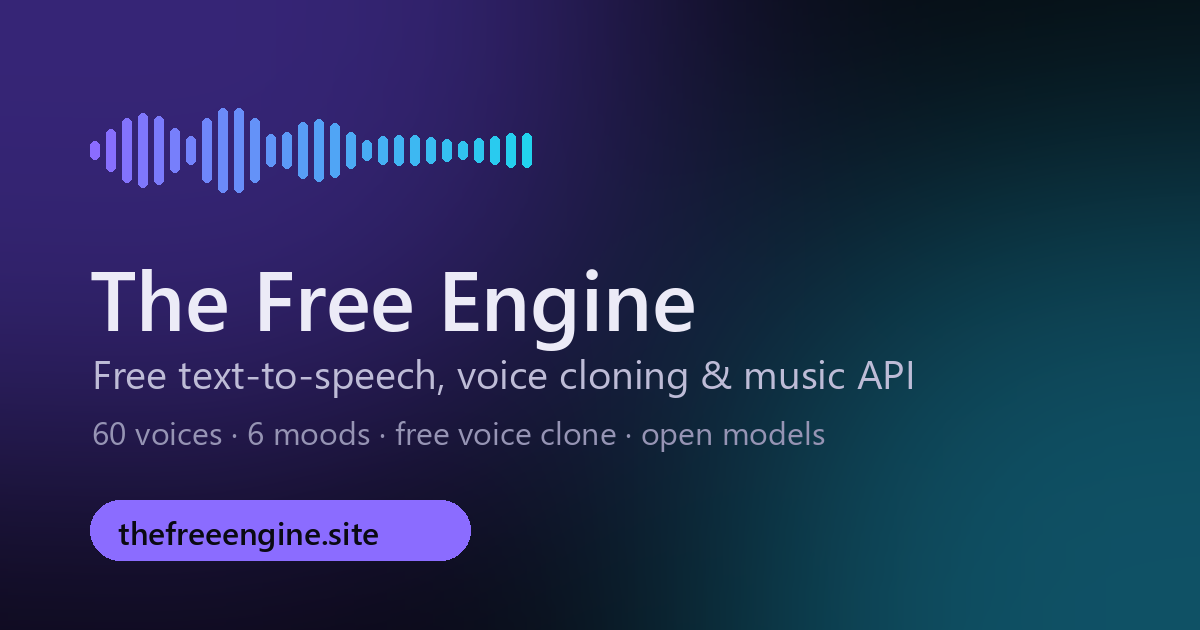
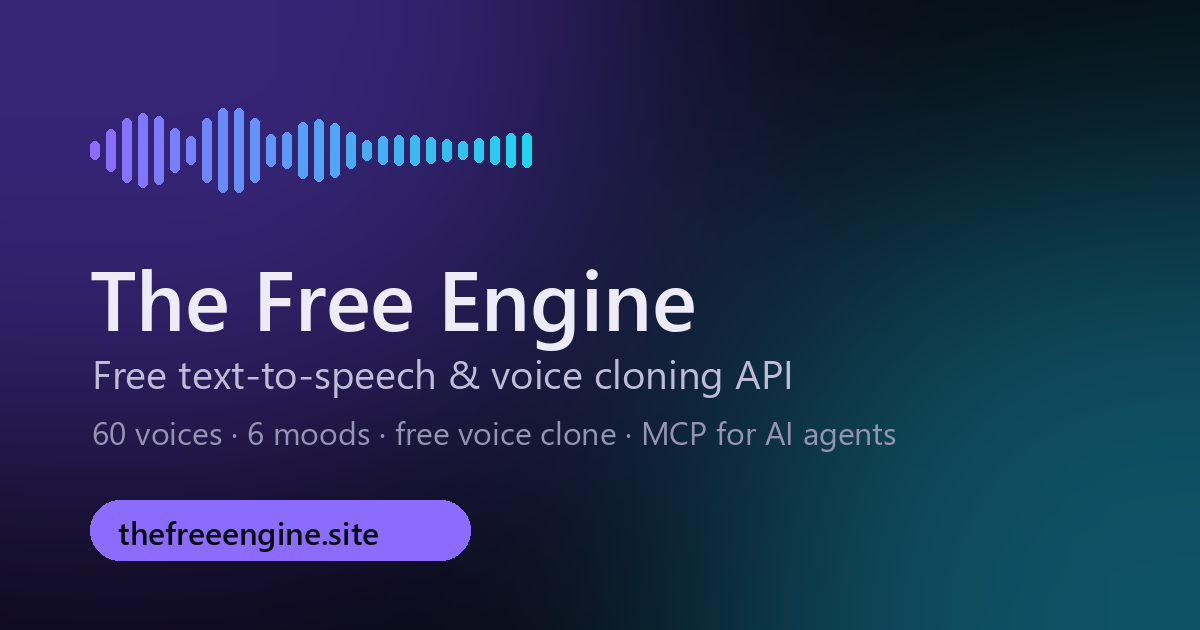
Pause music: hide it on the site, API and MCP (TFE_MUSIC_ENABLED), stop the music worker on deploy; deploy to new server by IP

Changed region(s): [[0.37, 0.573, 0.7708, 0.6333], [0.5242, 0.6635, 0.74, 0.7238]]

diff --git a/web/app.js b/web/app.js
@@ -370,11 +370,11 @@ const pages = {
         <p class="lead">${S.voices.length || 60} natural voices, free voice cloning, and a simple API. No card, no catch. Just sign up and start talking.</p>
         <div class="ctas">${S.me ? '<a class="btn pri" href="#/studio">Open studio</a>' : '<a class="btn pri" href="#/signup">Get your free API key</a>'}<a class="btn" href="#voices">Hear the voices</a></div>
         ${composerHTML(true)}
-        <div class="stats"><div><b>${S.voices.filter((v) => v.type === "house").length || 60}</b><span>house voices</span></div><div><b>5K</b><span>free chars / day</span></div><div><b>Free</b><span>voice cloning</span></div><div><b>♪</b><span>free music</span></div></div>
+        <div class="stats"><div><b>${S.voices.filter((v) => v.type === "house").length || 60}</b><span>house voices</span></div><div><b>5K</b><span>free chars / day</span></div><div><b>Free</b><span>voice cloning</span></div><div><b>MCP</b><span>for AI agents</span></div></div>
       </section>
       ${libraryHTML()}
       <section class="wrap"><div class="feat">
-        <div class="card"><div class="ic">${ICON.gift}</div><h3>Free, really</h3><p>5,000 characters a day, 1 free voice clone, 3 music tracks a day. No credit card.</p></div>
+        <div class="card"><div class="ic">${ICON.gift}</div><h3>Free, really</h3><p>5,000 characters a day and 1 free voice clone. No credit card.</p></div>
         <div class="card"><div class="ic">${ICON.code}</div><h3>Simple API</h3><p>One POST, get an MP3 back. Works from any language.</p></div>
         <div class="card"><div class="ic">${ICON.lock}</div><h3>Your voice, your rules</h3><p>Keep a cloned voice private to your account, or share it with everyone.</p></div>
         <div class="card"><div class="ic">${ICON.bolt}</div><h3>Open models</h3><p>Built on Kyutai Pocket TTS. Every house voice lists its public source.</p></div>
@@ -407,7 +407,7 @@ const pages = {
         <div class="feat" style="margin-top:14px">
           <div class="card"><h3>🗣 text_to_speech</h3><p>Any voice, any mood. Returns audio plus a 1-hour link.</p></div>
           <div class="card"><h3>🎭 list_voices</h3><p>Filter by mood, gender, tone and pitch.</p></div>
-          <div class="card"><h3>🎵 make_music</h3><p>Queue an instrumental track, then fetch it.</p></div>
+          <div class="card"><h3>🎙 voice_status</h3><p>Check your cloned voice and its moods.</p></div>
           <div class="card"><h3>📊 get_usage</h3><p>See today's use and free limits.</p></div></div></section>
       <section class="wrap"><div class="cols"><div><h2>Three lines to speech</h2><p class="muted">Get a key in the studio, then:</p>
 <pre><code>curl ${location.origin}/v1/tts \\
@@ -416,7 +416,7 @@ const pages = {
   -d '{"text":"Hello world!","voice":"aria"}' -o hello.mp3</code></pre><a class="btn" href="#/docs">Read the API docs</a></div>
         <div class="card"><h3>Plans</h3><table class="tbl"><tr><th></th><th>Free</th><th>Premium</th></tr>
           <tr><td>Characters per day</td><td><b>5,000</b></td><td>More</td></tr><tr><td>Characters per request</td><td><b>1,000</b></td><td>More</td></tr>
-          <tr><td>Voice clones</td><td><b>1 per account</b></td><td>More</td></tr><tr><td>Music tracks</td><td><b>3 a day, 30 s</b></td><td>Longer, more</td></tr>
+          <tr><td>Voice clones</td><td><b>1 per account</b></td><td>More</td></tr>
           <tr><td>Queue</td><td>Shared</td><td>Priority</td></tr><tr><td>Price</td><td><b class="grad">$0</b></td><td><span class="tag warn">Coming soon</span></td></tr></table></div></div></section>
     </div>`;
     wireComposer(); wireLibrary();
@@ -447,8 +447,8 @@ const pages = {
   async docs() {
     const o = location.origin;
     const rows = [["GET", "/v1/voices", "All voices you can use"], ["POST", "/v1/tts", "Text to speech (MP3 or WAV)"], ["POST", "/v1/voices/clone", "Queue a voice clone"],
-      ["GET", "/v1/voices/{id}", "Check a clone's status"], ["POST", "/v1/voices/{id}/moods", "Add a mood clip to your voice"], ["POST", "/v1/music", "Queue a music track"], ["GET", "/v1/music/{id}", "Check a track's status"],
-      ["GET", "/v1/music/{id}/audio", "Download a finished track (MP3)"], ["GET", "/v1/usage", "Today's use and limits"]];
+      ["GET", "/v1/voices/{id}", "Check a clone's status"], ["POST", "/v1/voices/{id}/moods", "Add a mood clip to your voice"],
+      ["GET", "/v1/usage", "Today's use and limits"]];
     view.innerHTML = `<div class="wrap page fade" style="max-width:900px"><h1>API</h1><p class="muted">Base URL <code>${o}</code>. Send your key as <code>Authorization: Bearer tfe_…</code>. Get a key in the <a href="#/studio">studio</a>.</p>
       <div class="card tblwrap" style="margin:18px 0 30px"><table class="tbl"><tr><th>Method</th><th>Path</th><th>What it does</th></tr>
       ${rows.map(([m, p, d]) => `<tr><td><span class="m ${m.toLowerCase()}">${m}</span></td><td><code>${p}</code></td><td>${d}</td></tr>`).join("")}</table></div>
@@ -484,16 +484,8 @@ curl "${o}/v1/voices?mood=sad&gender=f&tone=warm" -H "Authorization: Bearer $TFE
   -F file=@calm.wav -F name="My voice" -F mood=calm -F consent=yes
 curl ${o}/v1/voices/u_…/moods -H "Authorization: Bearer $TFE_KEY" \\
   -F file=@happy.wav -F mood=happy -F consent=yes</code></pre>
-      <h3>Make music</h3><p class="muted">Free: 3 instrumental tracks a day, up to 30 seconds. Tracks are queued; poll the status or wait for our email.</p>
-<pre><code>curl ${o}/v1/music -H "Authorization: Bearer $TFE_KEY" -H "Content-Type: application/json" \\
-  -d '{"prompt":"Calm lofi beat with soft piano 80 BPM","duration":30}'
-# → {"id":"m_…","status":"queued","queue_position":2}
-
-curl ${o}/v1/music/m_… -H "Authorization: Bearer $TFE_KEY"          # queued → processing → ready
-curl ${o}/v1/music/m_…/audio -H "Authorization: Bearer $TFE_KEY" -o track.mp3</code></pre>
-      <p class="muted small">Music powered by Stability AI.</p>
       <h3>Use with AI agents (MCP)</h3><p class="muted">Connect any MCP client (Claude, Cursor, Kiro, VS Code and others) to <code>${o}/mcp</code> with your API key.
-      Tools: <code>list_voices</code>, <code>text_to_speech</code> (returns audio plus a 1-hour download link), <code>make_music</code>, <code>music_status</code>, <code>voice_status</code>, <code>get_usage</code>.</p>
+      Tools: <code>list_voices</code>, <code>text_to_speech</code> (returns audio plus a 1-hour download link), <code>voice_status</code>, <code>get_usage</code>. <a href="#/mcp">Setup guide</a>.</p>
 <pre><code>{
   "mcpServers": {
     "the-free-engine": {
@@ -562,6 +554,7 @@ curl ${o}/v1/music/m_…/audio -H "Authorization: Bearer $TFE_KEY" -o track.mp3<
 };
 
 /* ------------------------------------------------------------ music */
+const MUSIC_ON = false; // music is paused (it needs the big-RAM worker); set true to bring the page back
 const MUSIC_IDEAS = [
   ["Lofi", "Calm lofi hip hop beat with soft piano, warm vinyl crackle and mellow drums 80 BPM"],
   ["House", "Upbeat house track with punchy kick, bright synth chords and a big build 124 BPM"],
@@ -574,6 +567,12 @@ const MUSIC_IDEAS = [
 ];
 let musicTimer = 0;
 pages.music = async function () {
+  if (!MUSIC_ON) {
+    view.innerHTML = `<div class="auth card fade" style="text-align:center"><div class="ic" style="margin:0 auto 14px">🎵</div><h1>Music is paused</h1>
+      <p class="muted">We've paused music for now. Text-to-speech, moods and voice cloning all still work.</p>
+      <div class="btnrow"><a class="btn pri" href="#/studio">Open studio</a><a class="btn" href="#/">See the voices</a></div></div>`;
+    return;
+  }
   const u = S.me?.usage;
   view.innerHTML = `<div class="wrap page fade"><div class="page-h"><div><h1>Make music <span class="tag ok" style="vertical-align:middle">Free</span></h1>
     <p class="muted" style="margin:0">Describe a sound and get an instrumental track. Free tracks wait in a queue, and we email you when yours is ready.</p></div></div>
@@ -637,20 +636,18 @@ pages.mcp = async function () {
   const tools = [
     ["text_to_speech", "text*, voice, mood, format, include_audio", "Speech as audio, plus a download link valid 1 hour"],
     ["list_voices", "mood, gender, tone, pitch", "Voices you can use, with their moods"],
-    ["make_music", "prompt*, duration (5–30)", "Queues a track and returns its id"],
-    ["music_status", "id*", "Status, and a download link when ready"],
     ["voice_status", "id*", "Status and moods of your cloned voice"],
     ["get_usage", "—", "Today's use and free limits"],
   ];
   view.innerHTML = `<div class="wrap page fade" style="max-width:920px">
     <span class="tag a">MCP · Model Context Protocol</span><h1 style="margin-top:12px">Use The Free Engine from your AI agent</h1>
-    <p class="muted">Connect any MCP client to <code>${esc(url)}</code>. Your agent can then speak text in any of 60 voices and 6 moods, find voices, and make music.</p>
+    <p class="muted">Connect any MCP client to <code>${esc(url)}</code>. Your agent can then speak text in any of 60 voices and 6 moods, and find the right voice.</p>
     <h3>1. Get a free API key</h3><p class="muted">${S.me ? `Open the <a href="#/studio">studio</a> and click <b>+ New key</b>.` : `<a href="#/signup">Sign up free</a>, confirm your email, then make a key in the studio.`} Keys start with <code>tfe_</code>.</p>
     <h3>2. Add the server to your client</h3>
     <div class="tabs" id="mcp-tabs">${clients.map(([id, label], i) => `<button class="${i ? "" : "on"}" data-c="${id}">${label}</button>`).join("")}</div>
     <div class="card" id="mcp-body"></div>
     <h3 style="margin-top:28px">3. Ask your agent</h3>
-    <div class="list">${["Read this script in June's excited voice and give me the MP3.", "List the calm female voices you can use.", "Make a 30-second lofi beat for my intro.", "How many characters do I have left today?"]
+    <div class="list">${["Read this script in June's excited voice and give me the MP3.", "List the calm female voices you can use.", "Use Leo's serious voice for this safety notice.", "How many characters do I have left today?"]
       .map((t) => `<div class="li"><span>💬</span><div class="grow">${esc(t)}</div></div>`).join("")}</div>
     <h3 style="margin-top:28px">Tools</h3>
     <div class="card tblwrap"><table class="tbl"><tr><th>Tool</th><th>Inputs (* = required)</th><th>Returns</th></tr>
@@ -660,7 +657,7 @@ pages.mcp = async function () {
     <div class="card tblwrap"><table class="tbl">
       <tr><td>Endpoint</td><td><code>POST ${esc(url)}</code>, streamable HTTP, JSON replies</td></tr>
       <tr><td>Auth</td><td><code>Authorization: Bearer tfe_…</code>, the same key as the REST API</td></tr>
-      <tr><td>Limits</td><td>The free plan applies: 5,000 characters a day, 1,000 per call, 3 music tracks a day</td></tr>
+      <tr><td>Limits</td><td>The free plan applies: 5,000 characters a day, 1,000 per call</td></tr>
       <tr><td>Audio links</td><td>Private and random. They expire after 1 hour.</td></tr>
       <tr><td>Big replies</td><td>Set <code>include_audio: false</code> to get only the link</td></tr>
       <tr><td>Errors</td><td>Returned as tool results with <code>isError: true</code>, so the agent can read them</td></tr></table></div>
@@ -697,11 +694,10 @@ function renderUsage() {
   const u = S.me.usage, pc = (a, b) => Math.min(100, (a / b) * 100).toFixed(1) + "%";
   $("#usage").innerHTML = `<div style="display:flex;justify-content:space-between;align-items:center"><h3 style="margin:0">Your plan</h3><span class="tag ok">Free</span></div>
     <div class="small muted" style="margin-top:12px">Characters today · ${u.chars.toLocaleString()} of ${u.chars_limit.toLocaleString()}</div><div class="meter"><i></i></div>
-    <div class="small muted" style="margin-top:12px">Music today · ${u.music} of ${u.music_limit}</div><div class="meter"><i></i></div>
     <div class="small muted" style="margin-top:12px">Voice clone · ${u.clones_used} of ${u.clones_limit} (per account)</div><div class="meter"><i></i></div>
     <div class="small muted" style="margin-top:10px">Daily limits reset at midnight UTC.</div>
-    <div class="notice" style="margin-top:14px">⭐ <b>Premium is coming soon:</b> more characters, more clones, longer music, priority queue.</div>`;
-  const m = $$("#usage .meter i"); m[0].style.setProperty("--w", pc(u.chars, u.chars_limit)); m[1].style.setProperty("--w", pc(u.music, u.music_limit)); m[2].style.setProperty("--w", pc(u.clones_used, u.clones_limit));
+    <div class="notice" style="margin-top:14px">⭐ <b>Premium is coming soon:</b> more characters, more clones, priority queue.</div>`;
+  const m = $$("#usage .meter i"); m[0].style.setProperty("--w", pc(u.chars, u.chars_limit)); m[1].style.setProperty("--w", pc(u.clones_used, u.clones_limit));
 }
 async function renderKeys(fresh) {
   const el = $("#keys"); if (!el) return;
@@ -842,7 +838,7 @@ async function route() {
   const name = (location.hash.replace(/^#\/?/, "").split("?")[0] || "home");
   if (name === "voices") { location.hash = "#/"; return; }
   const fn = pages[name] || pages.home;
-  const T = { home: "Free Text-to-Speech API, Voice Cloning & AI Music", studio: "Studio", clone: "Free Voice Cloning", music: "Free AI Music Generator",
+  const T = { home: "Free Text-to-Speech API, Voice Cloning & Moods", studio: "Studio", clone: "Free Voice Cloning", music: "Free AI Music Generator",
     docs: "Text-to-Speech API Docs", mcp: "MCP Server for AI Agents", login: "Log in", signup: "Sign up free", admin: "Admin" };
   document.title = `${T[name] || T.home} | The Free Engine`;
   for (const a of $$("#nav a")) a.classList.toggle("on", a.dataset.r === name);

diff --git a/web/index.html b/web/index.html
@@ -3,9 +3,9 @@
 <head>
 <meta charset="utf-8">
 <meta name="viewport" content="width=device-width, initial-scale=1, viewport-fit=cover">
-<title>Free Text-to-Speech API, Voice Cloning & AI Music | The Free Engine</title>
-<meta name="description" content="Free text-to-speech API with 60 natural voices in 6 moods (happy, sad, excited, calm, serious), free voice cloning and free AI music. Built on open models. No credit card.">
-<meta name="keywords" content="free text to speech, free TTS API, voice cloning free, AI voice generator, emotional TTS, text to speech moods, AI music generator free, open source TTS">
+<title>Free Text-to-Speech API with Moods & Voice Cloning | The Free Engine</title>
+<meta name="description" content="Free text-to-speech API with 60 natural voices in 6 moods (happy, sad, excited, calm, serious), free voice cloning and an MCP server for AI agents. Built on open models. No credit card.">
+<meta name="keywords" content="free text to speech, free TTS API, voice cloning free, AI voice generator, emotional TTS, text to speech moods, MCP text to speech, open source TTS">
 <meta name="robots" content="index, follow, max-image-preview:large">
 <link rel="canonical" href="https://thefreeengine.site/">
 <meta name="theme-color" content="#0a0a12">
@@ -14,15 +14,15 @@
 <meta property="og:type" content="website">
 <meta property="og:site_name" content="The Free Engine">
 <meta property="og:url" content="https://thefreeengine.site/">
-<meta property="og:title" content="The Free Engine · Free TTS, voice cloning & music API">
-<meta property="og:description" content="60 natural voices in 6 moods, free voice cloning and free AI music. Sign up, get a key, make speech.">
+<meta property="og:title" content="The Free Engine · Free TTS & voice cloning API">
+<meta property="og:description" content="60 natural voices in 6 moods and free voice cloning. Sign up, get a key, make speech.">
 <meta property="og:image" content="https://thefreeengine.site/og.png">
 <meta property="og:image:width" content="1200">
 <meta property="og:image:height" content="630">
-<meta property="og:image:alt" content="The Free Engine: free text-to-speech, voice cloning and music API">
+<meta property="og:image:alt" content="The Free Engine: free text-to-speech and voice cloning API">
 <meta name="twitter:card" content="summary_large_image">
-<meta name="twitter:title" content="The Free Engine · Free TTS, voice cloning & music API">
-<meta name="twitter:description" content="60 natural voices in 6 moods, free voice cloning and free AI music.">
+<meta name="twitter:title" content="The Free Engine · Free TTS & voice cloning API">
+<meta name="twitter:description" content="60 natural voices in 6 moods and free voice cloning.">
 <meta name="twitter:image" content="https://thefreeengine.site/og.png">
 <link rel="icon" href="/favicon.svg" type="image/svg+xml">
 <link rel="apple-touch-icon" href="/og.png">
@@ -33,17 +33,16 @@
  {"@type":"Organization","@id":"https://thefreeengine.site/#org","name":"The Free Engine","url":"https://thefreeengine.site/","logo":"https://thefreeengine.site/og.png","sameAs":["https://github.com/Thinkelution/TheFreeEngine"]},
  {"@type":"WebSite","@id":"https://thefreeengine.site/#site","url":"https://thefreeengine.site/","name":"The Free Engine","publisher":{"@id":"https://thefreeengine.site/#org"},"inLanguage":"en"},
  {"@type":"WebApplication","name":"The Free Engine","url":"https://thefreeengine.site/","applicationCategory":"MultimediaApplication","operatingSystem":"Any (web browser, REST API)",
-  "description":"Free text-to-speech API with 60 voices in 6 moods, free voice cloning and free instrumental AI music.",
+  "description":"Free text-to-speech API with 60 voices in 6 moods, free voice cloning and an MCP server for AI agents.",
   "offers":[{"@type":"Offer","name":"Free","price":"0","priceCurrency":"USD"}],
-  "featureList":["Text-to-speech REST API","MCP server for AI agents","60 house voices","Moods: neutral, happy, sad, excited, calm, serious","Free voice cloning","Private or public cloned voices","Instrumental AI music","MP3 and WAV output"],
+  "featureList":["Text-to-speech REST API","MCP server for AI agents","60 house voices","Moods: neutral, happy, sad, excited, calm, serious","Free voice cloning","Private or public cloned voices","MP3 and WAV output"],
   "publisher":{"@id":"https://thefreeengine.site/#org"}},
  {"@type":"FAQPage","mainEntity":[
-  {"@type":"Question","name":"Is The Free Engine really free?","acceptedAnswer":{"@type":"Answer","text":"Yes. The free plan includes 5,000 characters of speech a day, 1 voice clone per account and 3 music tracks a day. No credit card is needed. Premium plans are coming soon."}},
+  {"@type":"Question","name":"Is The Free Engine really free?","acceptedAnswer":{"@type":"Answer","text":"Yes. The free plan includes 5,000 characters of speech a day and 1 voice clone per account. No credit card is needed. Premium plans are coming soon."}},
   {"@type":"Question","name":"Can I choose the mood of a voice?","acceptedAnswer":{"@type":"Answer","text":"Yes. Many voices come in happy, sad, excited, calm and serious versions as well as neutral. Send \"mood\" in the API request, or pick a mood in the studio."}},
   {"@type":"Question","name":"How does free voice cloning work?","acceptedAnswer":{"@type":"Answer","text":"Upload or record 10 to 20 seconds of clear speech. Free clones wait in a queue and you get an email when your voice is ready. You can keep it private to your account or share it publicly."}},
-  {"@type":"Question","name":"Can I make music?","acceptedAnswer":{"@type":"Answer","text":"Yes. Describe the sound you want and get a free instrumental track up to 30 seconds. Tracks are queued and you get an email when yours is done."}},
-  {"@type":"Question","name":"Can I use it from an AI agent?","acceptedAnswer":{"@type":"Answer","text":"Yes. The Free Engine is an MCP server at https://thefreeengine.site/mcp. Add it to Claude, Cursor, VS Code, Kiro or any MCP client with your free API key, then ask the agent to speak text in any voice and mood or make music."}},
-  {"@type":"Question","name":"Which models does it use?","acceptedAnswer":{"@type":"Answer","text":"Speech uses Kyutai Pocket TTS. House voices are built from LibriTTS-R recordings (CC BY 4.0). Music is powered by Stability AI's Stable Audio 3 Small."}}]}
+  {"@type":"Question","name":"Can I use it from an AI agent?","acceptedAnswer":{"@type":"Answer","text":"Yes. The Free Engine is an MCP server at https://thefreeengine.site/mcp. Add it to Claude, Cursor, VS Code, Kiro or any MCP client with your free API key, then ask the agent to speak text in any voice and mood."}},
+  {"@type":"Question","name":"Which models does it use?","acceptedAnswer":{"@type":"Answer","text":"Speech uses Kyutai Pocket TTS. House voices are built from LibriTTS-R recordings (CC BY 4.0)."}}]}
 ]}
 </script>
 </head>
@@ -55,7 +54,6 @@
     <a href="#/" data-r="home">Voices</a>
     <a href="#/studio" data-r="studio">Studio</a>
     <a href="#/clone" data-r="clone">Clone</a>
-    <a href="#/music" data-r="music">Music</a>
     <a href="#/docs" data-r="docs">API</a>
     <a href="#/mcp" data-r="mcp">MCP</a>
     <a href="#/admin" data-r="admin" class="hide" id="nav-admin">Admin</a>
@@ -63,10 +61,10 @@
   <div class="who" id="who"></div>
 </header>
 <main id="view" tabindex="-1"><div class="boot" aria-hidden="true"><span class="mark"><b></b><b></b><b></b><b></b></span></div><!--SEO-START--><div class="wrap seo-static">
-  <h1>Free text-to-speech API, voice cloning and AI music</h1>
-  <p>The Free Engine gives you a free text-to-speech API with 60 natural voices, each in up to six moods: neutral, happy, sad, excited, calm and serious. Clone your own voice for free, keep it private or share it, and make free instrumental music from a text prompt.</p>
+  <h1>Free text-to-speech API with moods and voice cloning</h1>
+  <p>The Free Engine gives you a free text-to-speech API with 60 natural voices, each in up to six moods: neutral, happy, sad, excited, calm and serious. Clone your own voice for free, and keep it private or share it. AI agents can use it through MCP.</p>
   <h2>Free plan</h2>
-  <ul><li>5,000 characters of speech a day, up to 1,000 per request</li><li>1 free voice clone per account, plus up to 4 extra mood clips</li><li>3 instrumental music tracks a day, up to 30 seconds</li><li>MP3 or WAV output, simple REST API, no credit card</li></ul>
+  <ul><li>5,000 characters of speech a day, up to 1,000 per request</li><li>1 free voice clone per account, plus up to 4 extra mood clips</li><li>MP3 or WAV output, simple REST API, no credit card</li></ul>
   <h2>Voices</h2>
   <p><!--SEO-VOICES--></p>
   <h2>Moods</h2>
@@ -74,12 +72,12 @@
   <h2>Quick start</h2>
   <pre><code>curl https://thefreeengine.site/v1/tts -H "Authorization: Bearer $TFE_KEY" -H "Content-Type: application/json" -d '{"text":"Hello world!","voice":"aria","mood":"happy"}' -o hello.mp3</code></pre>
   <h2>Use it from AI agents (MCP)</h2>
-  <p>The Free Engine is a Model Context Protocol (MCP) server at <code>https://thefreeengine.site/mcp</code>. Connect Claude, Cursor, VS Code, Kiro or any MCP client with your API key. Tools: text_to_speech, list_voices, make_music, music_status, voice_status, get_usage. <a href="#/mcp">MCP setup guide</a>.</p>
+  <p>The Free Engine is a Model Context Protocol (MCP) server at <code>https://thefreeengine.site/mcp</code>. Connect Claude, Cursor, VS Code, Kiro or any MCP client with your API key. Tools: text_to_speech, list_voices, voice_status, get_usage. <a href="#/mcp">MCP setup guide</a>.</p>
   <h2>Questions</h2>
   <h3>Is it really free?</h3><p>Yes. No card is needed. Premium plans with higher limits are coming soon.</p>
   <h3>How does voice cloning work?</h3><p>Upload or record 10 to 20 seconds of clear speech. Free clones wait in a queue, and we email you when your voice is ready.</p>
-  <h3>Which models power it?</h3><p>Speech: Kyutai Pocket TTS. House voices: LibriTTS-R (CC BY 4.0). Music: Stability AI Stable Audio 3 Small.</p>
-  <p><a href="#/signup">Sign up free</a> · <a href="#/docs">API docs</a> · <a href="#/clone">Clone a voice</a> · <a href="#/music">Make music</a></p>
+  <h3>Which models power it?</h3><p>Speech: Kyutai Pocket TTS. House voices: LibriTTS-R (CC BY 4.0).</p>
+  <p><a href="#/signup">Sign up free</a> · <a href="#/docs">API docs</a> · <a href="#/clone">Clone a voice</a> · <a href="#/mcp">Use with AI agents</a></p>
 </div><!--SEO-END--></main>
 <footer class="foot">
   <span>Free speech for everyone. Built on <a href="https://github.com/kyutai-labs/pocket-tts" rel="noopener">Kyutai Pocket TTS</a>.

diff --git a/server/app.py b/server/app.py
@@ -49,6 +49,7 @@ MAX_CHARS = int(os.environ.get("TFE_MAX_CHARS", "1000"))
 DAILY_CHARS = int(os.environ.get("TFE_DAILY_CHARS", "5000"))
 CLONES_PER_ACCOUNT = int(os.environ.get("TFE_CLONES_PER_ACCOUNT", "1"))  # lifetime, free plan
 DAILY_MUSIC = int(os.environ.get("TFE_DAILY_MUSIC", "3"))
+MUSIC_ENABLED = os.environ.get("TFE_MUSIC_ENABLED", "0") == "1"  # music needs the big-RAM worker; off by default
 MUSIC_MAX_SEC = int(os.environ.get("TFE_MUSIC_MAX_SEC", "30"))
 MAX_USER_VOICES = int(os.environ.get("TFE_MAX_USER_VOICES", "10"))
 MAX_KEYS = 5
@@ -182,7 +183,8 @@ def charge(uid: int, chars=0, clones=0, music=0):
 def usage_out(us) -> dict:
     return {"chars": us["chars"], "chars_limit": DAILY_CHARS, "max_chars_per_request": MAX_CHARS,
             "clones_used": us["clones_used"], "clones_limit": CLONES_PER_ACCOUNT,
-            "music": us["music"], "music_limit": DAILY_MUSIC, "music_max_sec": MUSIC_MAX_SEC,
+            "music": us["music"], "music_limit": DAILY_MUSIC if MUSIC_ENABLED else 0, "music_max_sec": MUSIC_MAX_SEC,
+            "music_enabled": MUSIC_ENABLED,
             "max_voices": MAX_USER_VOICES, "plan": "free"}
 
 
@@ -869,6 +871,7 @@ def health():
     return {"ok": True, "voices": len(state.get("house", {})),
             "mood_versions": sum(len(house_moods(v)) - 1 for v in state.get("catalog", {})),
             "clone_queue": q1("SELECT COUNT(*) n FROM voices WHERE status IN ('queued','processing')")["n"],
+            "music_enabled": MUSIC_ENABLED,
             "music_queue": q1("SELECT COUNT(*) n FROM music WHERE status IN ('queued','processing')")["n"]}
 
 
@@ -936,6 +939,8 @@ def _music_out(r: sqlite3.Row) -> dict:
 
 
 def _queue_music(u: User, body: MusicRequest) -> dict:
+    if not MUSIC_ENABLED:
+        raise HTTPException(503, "Music is paused for now. Text-to-speech and voice cloning still work.")
     if body.duration > MUSIC_MAX_SEC:
         raise HTTPException(400, f"Free tracks can be up to {MUSIC_MAX_SEC} seconds. Longer tracks come with Premium.")
     if usage(u.id)["music"] >= DAILY_MUSIC:
@@ -1130,7 +1135,7 @@ async def mcp(req: Request):
         return _rpc(id_, {"protocolVersion": want if want in MCP_VERSIONS else MCP_VERSIONS[0],
                           "capabilities": {"tools": {"listChanged": False}},
                           "serverInfo": {"name": "the-free-engine", "title": "The Free Engine", "version": "1.0.0"},
-                          "instructions": "Free text-to-speech (60 voices, 6 moods) and instrumental music. "
+                          "instructions": "Free text-to-speech (60 voices, 6 moods)" + (" and instrumental music" if MUSIC_ENABLED else "") + ". "
                                           "Call list_voices to pick a voice, then text_to_speech."})
     if method == "ping":
         return _rpc(id_, {})
@@ -1140,7 +1145,8 @@ async def mcp(req: Request):
         return JSONResponse(_rpc(id_, error={"code": -32001, "message": e.detail}), status_code=401,
                             headers={"WWW-Authenticate": 'Bearer realm="The Free Engine"'})
     if method == "tools/list":
-        return _rpc(id_, {"tools": MCP_TOOLS})
+        tools = MCP_TOOLS if MUSIC_ENABLED else [t for t in MCP_TOOLS if t["name"] not in ("make_music", "music_status")]
+        return _rpc(id_, {"tools": tools})
     if method == "tools/call":
         name = params.get("name")
         try:

diff --git a/deploy/make_og.py b/deploy/make_og.py
@@ -31,8 +31,8 @@ for i in range(28):
     d.rounded_rectangle((x0 + i * 16, mid - h / 2, x0 + i * 16 + 9, mid + h / 2), radius=4, fill=c)
 
 d.text((90, 240), "The Free Engine", font=font(84, True), fill=(236, 235, 247))
-d.text((92, 345), "Free text-to-speech, voice cloning & music API", font=font(40), fill=(190, 188, 215))
-d.text((92, 410), "60 voices · 6 moods · free voice clone · open models", font=font(32), fill=(150, 148, 180))
+d.text((92, 345), "Free text-to-speech & voice cloning API", font=font(40), fill=(190, 188, 215))
+d.text((92, 410), "60 voices · 6 moods · free voice clone · MCP for AI agents", font=font(32), fill=(150, 148, 180))
 d.rounded_rectangle((90, 500, 470, 560), radius=30, fill=(139, 108, 255))
 d.text((118, 510), "thefreeengine.site", font=font(32, True), fill=(10, 10, 18))
 img.save(sys.argv[1] if len(sys.argv) > 1 else "web/og.png", optimize=True)
